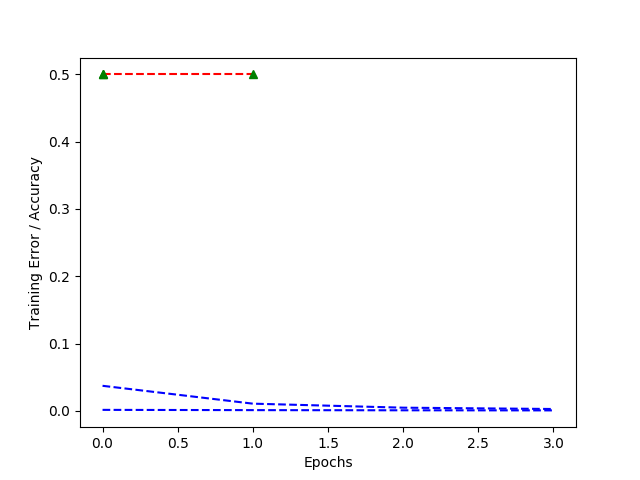
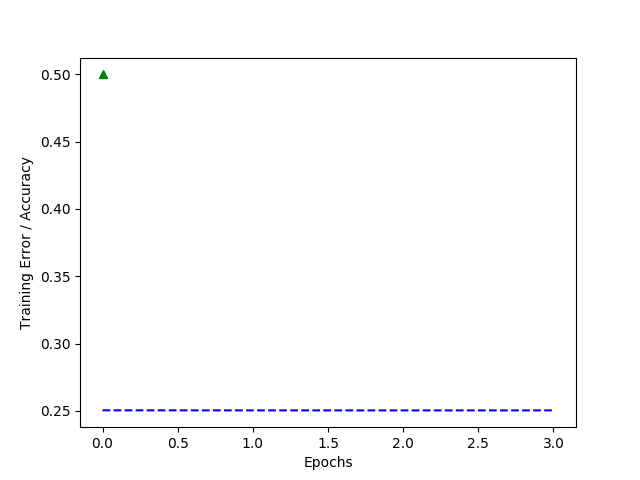
increased network capacity to 16 channels in all conv layers

diff --git a/deep_learning_player.py b/deep_learning_player.py
@@ -86,7 +86,7 @@ class Net(nn.Module):
 
     def __init__(self):
         super(Net, self).__init__()
-        '''
+        # '''
         self.conv_to_linear_params_size = 16*8*8
         self.conv1 = nn.Conv2d(in_channels= 1, out_channels=16, kernel_size=3, padding=1)
         self.conv2 = nn.Conv2d(in_channels=16, out_channels=16, kernel_size=3, padding=1)
@@ -98,20 +98,20 @@ class Net(nn.Module):
         self.fc1 = nn.Linear(in_features=self.conv_to_linear_params_size,    out_features=self.conv_to_linear_params_size/ 4)  # Channels x Board size (was 4x4 for some reason)
         self.fc2 = nn.Linear(in_features=self.conv_to_linear_params_size/ 4, out_features=self.conv_to_linear_params_size/ 16)
         self.fc3 = nn.Linear(in_features=self.conv_to_linear_params_size/ 16, out_features=1)
-        '''
-
         # '''
+
+        '''
         self.fc1 = nn.Linear(in_features=64, out_features=64)
         self.fc2 = nn.Linear(in_features=64, out_features=32)
         self.fc3 = nn.Linear(in_features=32, out_features=1)
-        # '''
+        '''
 
         self.learning_rate = 0.01
         self.criterion = torch.nn.MSELoss(size_average=False)
         # self.criterion = torch.nn.CrossEntropyLoss(weight=None, size_average=True)
 
     def forward(self, x):
-        '''
+        # '''
         x = F.relu(self.conv1(x))
         x = F.relu(self.conv2(x))
         x = F.relu(self.conv3(x))
@@ -123,14 +123,14 @@ class Net(nn.Module):
         x = F.relu(self.fc1(x))
         x = F.relu(self.fc2(x))
         x = F.sigmoid(self.fc3(x))
-        '''
-
         # '''
+
+        '''
         x = x.view(-1, 64)
         x = F.relu(self.fc1(x))
         x = F.relu(self.fc2(x))
         x = F.sigmoid(self.fc3(x))
-        # '''
+        '''
 
         return x
 
@@ -173,8 +173,8 @@ class Net(nn.Module):
         losses = []
         start_time = time.time()
         for epoch in range(final_epoch*epochs_per_stage):
-            training_data = get_dummy_training_data((16000 * 60 / 1000)) # 10% of training set size
-            # training_data = DataHandler.get_curriculum_training_data(epoch/epochs_per_stage)
+            # training_data = get_dummy_training_data((16000 * 60 / 10)) # 10% of training set size
+            training_data = DataHandler.get_curriculum_training_data(epoch/epochs_per_stage)
             losses.extend(self.train_epoch(optimizer=self.optimizer, training_data=training_data, epoch_id=epoch))
 
         total_time = DataHandler.format_time(time.time() - start_time)
@@ -204,7 +204,7 @@ class Net(nn.Module):
             if percent_done - 100 * index // training_data_length != 0:
                 percent_done = 100 * index // training_data_length
                 average_losses.append(accumulated_loss/(index+1))
-                print('Finished %s%% of epoch %s | average loss: %s' % (percent_done, epoch_id, accumulated_loss/(index+1)))
+                print('Finished %s%% of epoch %s | average loss: %s' % (percent_done, epoch_id+1, accumulated_loss/(index+1)))
 
         print "Successively trained %s epochs (epoch timer: %s)" % (epoch_id+1, DataHandler.format_time(time.time() - epoch_time))
         return average_losses

diff --git a/train_model.py b/train_model.py
@@ -12,12 +12,12 @@ def train_curriculum():
 
     start_time = time.time()
     accuracies = []
-    while (True):
+    while (accuracies == []):
         #while datetime.datetime.today().day % 2 != 0:
         #   time.sleep(3600)
 
         #losses = player.train_model(epochs=1, batch_size=10, continue_training=True)
-        losses = player.train_model_on_curriculum(epochs_per_stage=5, final_epoch=1, continue_training=True)
+        losses = player.train_model_on_curriculum(epochs_per_stage=2, final_epoch=1, continue_training=True)
         print "Training successfull, took %s" % DataHandler.format_time(time.time() - start_time)
         acc = test_network(player)
         print "Training Error / Accuracy: %s" % acc
